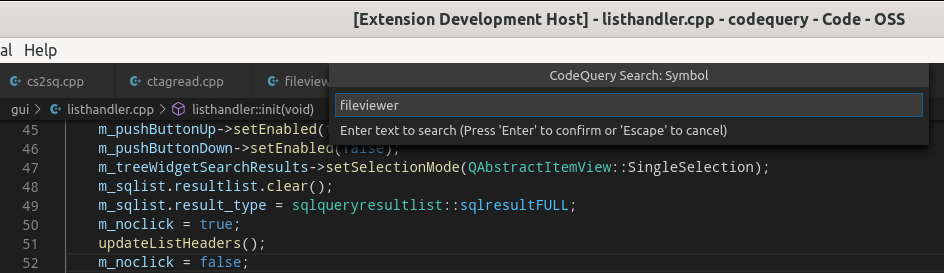
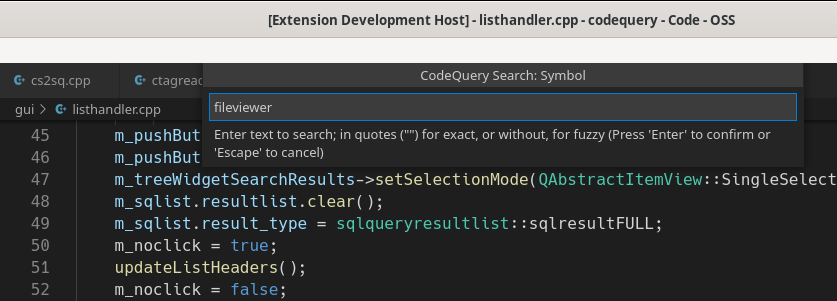
update docs for exact vs. fuzzy search

Changed region(s): [[0.0, 0.0, 1.0, 1.0]]

diff --git a/README.md b/README.md
@@ -142,11 +142,13 @@ Next, type "CodeQuery" into the inputbox. It will narrow down the results. Selec
 
 ![Command Palette](media/commandpalette2.png)
 
-Next, it will show you a quickpick menu with a list of possible search types. In this example, we select "1: Symbol".
+Next, it will show you a quickpick menu with a list of possible search types. In this example, we select `1: Symbol`.
 
 ![Search type selection](media/searchtypeselection.png)
 
-Next, it will show you an inputbox, where you can type a search phrase. In this example, we typed "fileviewer". Then press Enter.
+Next, it will show you an inputbox, where you can type a search phrase. In this example, we typed `fileviewer` for fuzzy search. Then press Enter.
+
+For exact string search (including case sensitive), please enclose the search term in quotes like this: `"fileviewer"`.
 
 ![Search inputbox](media/inputbox.png)
 
@@ -157,11 +159,11 @@ After this, the search results will be shown. How to browse the search results w
 
 First, open a source file from the current project or folder in Visual Studio Code, then make a text selection using the mouse or keyboard, by highlighting some text. In this example, we highlighted "sqlqueryresultlist" in listhandler.cpp, at line 53.
 
-After this, right-click and a dropdown menu will appear. Select `CodeQuery: Search from selected text`.
+After this, right-click and a dropdown menu will appear. Select `CodeQuery: Search from selected text (fuzzy)` for fuzzy search, or `CodeQuery: Search from selected text (exact)` for exact string search (including case sensitive).
 
 ![Text selection, then right-click](media/selectionrightclickmenu.png)
 
-Next, it will show you a quickpick menu with a list of possible search types. In this example, we select "1: Symbol".
+Next, it will show you a quickpick menu with a list of possible search types. In this example, we select `1: Symbol`.
 
 ![Search type selection](media/searchtypeselection.png)
 
@@ -176,11 +178,13 @@ First, click the CodeQuery icon on the leftmost panel. This will reveal the code
 
 After this, click on `[Click here to search]` on the codequery4vscode treeview.
 
-Next, it will show you a quickpick menu with a list of possible search types. In this example, we select "1: Symbol".
+Next, it will show you a quickpick menu with a list of possible search types. In this example, we select `1: Symbol`.
 
 ![Search type selection](media/searchtypeselection.png)
 
-Next, it will show you an inputbox, where you can type a search phrase. In this example, we typed "fileviewer". Then press Enter.
+Next, it will show you an inputbox, where you can type a search phrase. In this example, we typed `fileviewer` for fuzzy search. Then press Enter.
+
+For exact string search (including case sensitive), please enclose the search term in quotes like this: `"fileviewer"`.
 
 ![Search inputbox](media/inputbox.png)
 
@@ -195,15 +199,15 @@ Below that, a list of files where the search results appear in, would be shown.
 
 ![Search results1](media/searchresults1.png)
 
-Select a file on the list to expand it, then select a line which represents a result. In this example, we selected searchhandler.cpp and selected the line "213: if ((res.result_type == sqlquery...".  Then the file searchhandler.cpp will be opened and it will reveal line 213. Select other files and lines to see more results.
+Select a file on the list to expand it, then select a line which represents a result. In this example, we selected searchhandler.cpp and selected the line `213: if ((res.result_type == sqlquery...`.  Then the file searchhandler.cpp will be opened and it will reveal line 213. Select other files and lines to see more results.
 
 ![Search results2](media/searchresults2.png)
 
-The above is based on the search type of "1: Symbol".
+The above is based on the search type of `1: Symbol`.
 
 Click on `[Search again with another type]` under Search Summary, to repeat the search but to select a different search type.
 
-Next, it will show you a quickpick menu with a list of possible search types. In this example, we select "3: Class or Struct".
+Next, it will show you a quickpick menu with a list of possible search types. In this example, we select `3: Class or Struct`.
 
 ![Search type selection](media/searchtypeselection.png)
 
